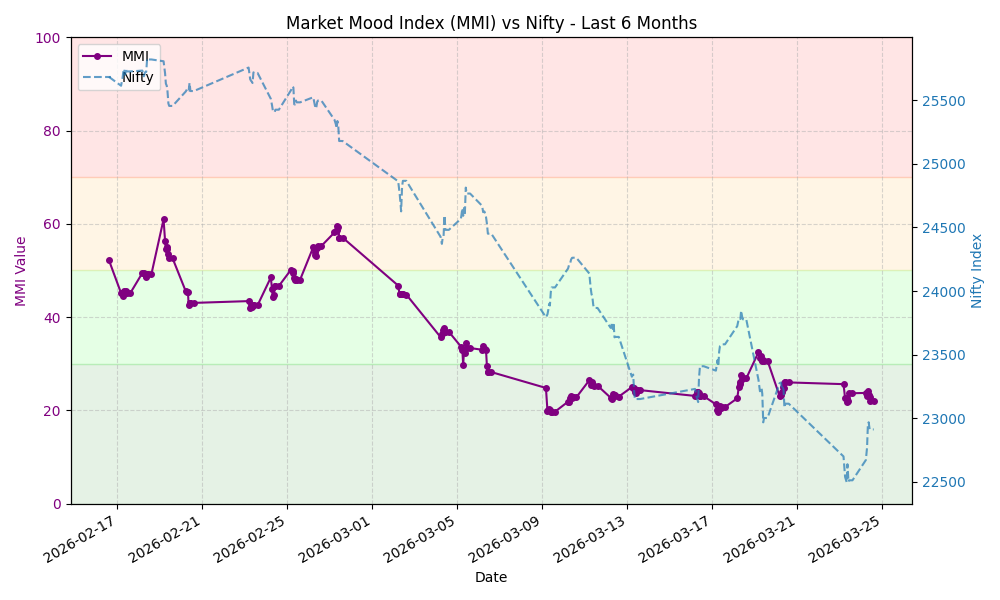
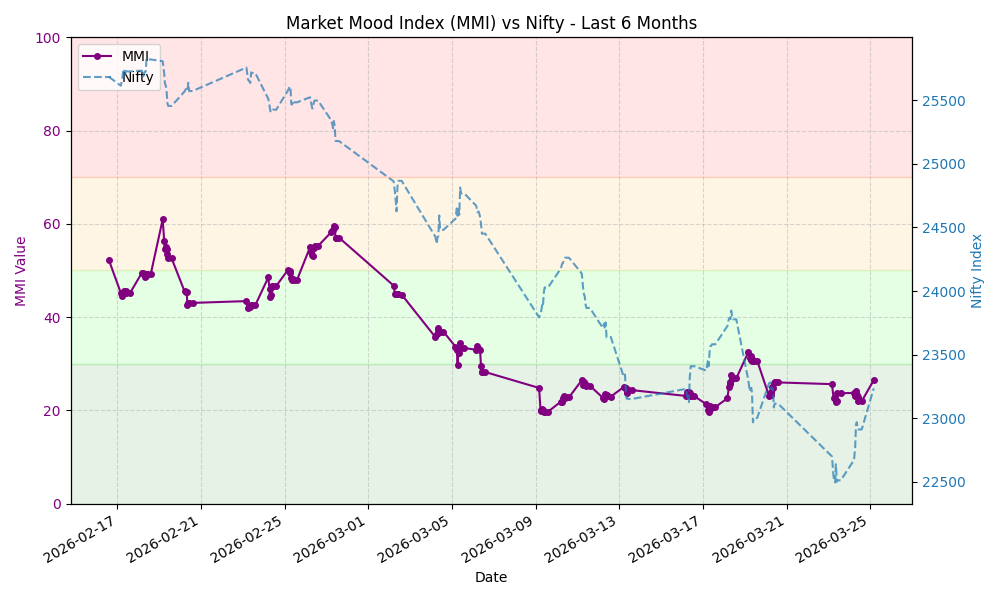
Update MMI data and chart

diff --git a/README.md b/README.md
@@ -7,8 +7,8 @@ This repository automatically fetches the MMI value, stores the history, and gen
 
 ## Latest MMI Value
 
-**21.96** - **Extreme Fear**
-<small>Last Updated: 2026-03-24 14:20 UTC</small>
+**26.48** - **Extreme Fear**
+<small>Last Updated: 2026-03-25 04:06 UTC</small>
 
 ## MMI Trend (Last 30 Days)
 
